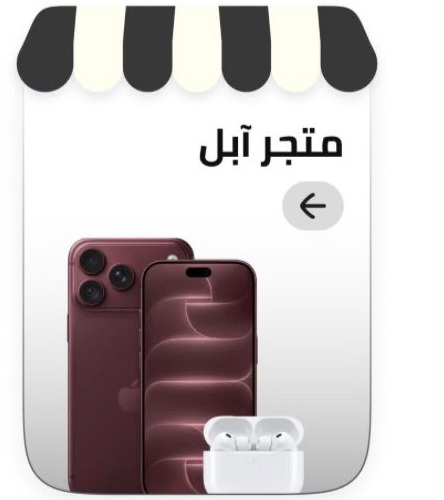
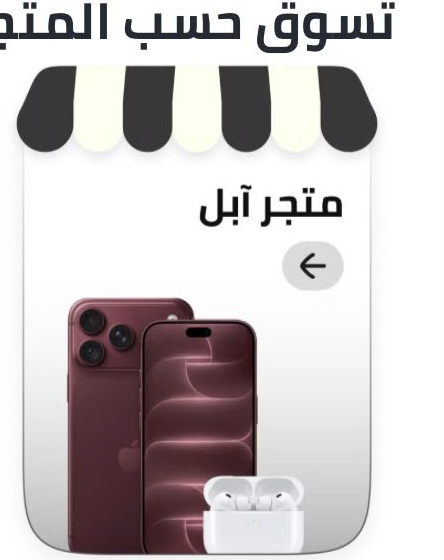
Fix store awnings and equalize store cards

diff --git a/src/pages/Home.jsx b/src/pages/Home.jsx
@@ -164,11 +164,11 @@ const MerchantStoresSection = ({ stores, language }) => {
                 </div>
                 <span className="text-xl text-gray-400">▦</span>
             </div>
-            <DraggableScrollContainer className="flex snap-x snap-mandatory gap-3 overflow-x-auto px-1 pb-1 scrollbar-hide">
+            <DraggableScrollContainer className="flex snap-x snap-mandatory justify-center gap-3 overflow-x-auto px-0 pb-1 scrollbar-hide">
                 {visibleStores.map(store => (
-                    <Link key={store.id} to={store.category ? `/category/${encodeURIComponent(store.category)}` : '/'} className="group relative min-w-[58%] snap-center overflow-hidden rounded-[18px] border border-gray-100 bg-gray-50 shadow-sm transition-transform duration-300 hover:-translate-y-1 dark:border-white/10 dark:bg-white/5 sm:min-w-[32%] md:min-w-[24%]" draggable="false">
-                        <div className="relative aspect-[0.82/1] overflow-hidden bg-gradient-to-br from-gray-200 via-gray-300 to-gray-400 dark:from-gray-700 dark:via-gray-800 dark:to-gray-900" style={store.background ? { background: store.background } : undefined}>
-                            {store.imageUrl && <img src={store.imageUrl} alt={store.name} className="h-full w-full object-cover transition-transform duration-500 group-hover:scale-105" loading="lazy" />}
+                    <Link key={store.id} to={store.category ? `/category/${encodeURIComponent(store.category)}` : '/'} className="group relative w-[calc(50%_-_6px)] min-w-[calc(50%_-_6px)] shrink-0 snap-center overflow-hidden rounded-[18px] border border-gray-100 bg-gray-50 shadow-sm transition-transform duration-300 hover:-translate-y-1 dark:border-white/10 dark:bg-white/5 sm:w-[calc(33.333%_-_8px)] sm:min-w-[calc(33.333%_-_8px)] md:w-[calc(25%_-_9px)] md:min-w-[calc(25%_-_9px)]" draggable="false">
+                        <div className="relative aspect-[0.78/1] overflow-hidden bg-gradient-to-br from-gray-200 via-gray-300 to-gray-400 dark:from-gray-700 dark:via-gray-800 dark:to-gray-900" style={store.background ? { background: store.background } : undefined}>
+                            {store.imageUrl && <img src={store.imageUrl} alt={store.name} className="h-full w-full object-cover object-center transition-transform duration-500 group-hover:scale-105" loading="lazy" />}
                             <div className="absolute inset-0 bg-gradient-to-t from-black/20 via-transparent to-white/10" />
                         </div>
                         <div className="flex items-center justify-between gap-2 bg-white px-4 py-3 dark:bg-[#20242b]"><div className="min-w-0"><h3 className="truncate text-base font-black text-gray-900 dark:text-white">{store.name}</h3>{store.description && <p className="mt-0.5 truncate text-[11px] font-bold text-gray-500">{store.description}</p>}</div><span className="flex h-9 w-9 shrink-0 items-center justify-center rounded-full bg-gray-100 text-xl text-gray-700 dark:bg-white/10 dark:text-white">←</span></div>
